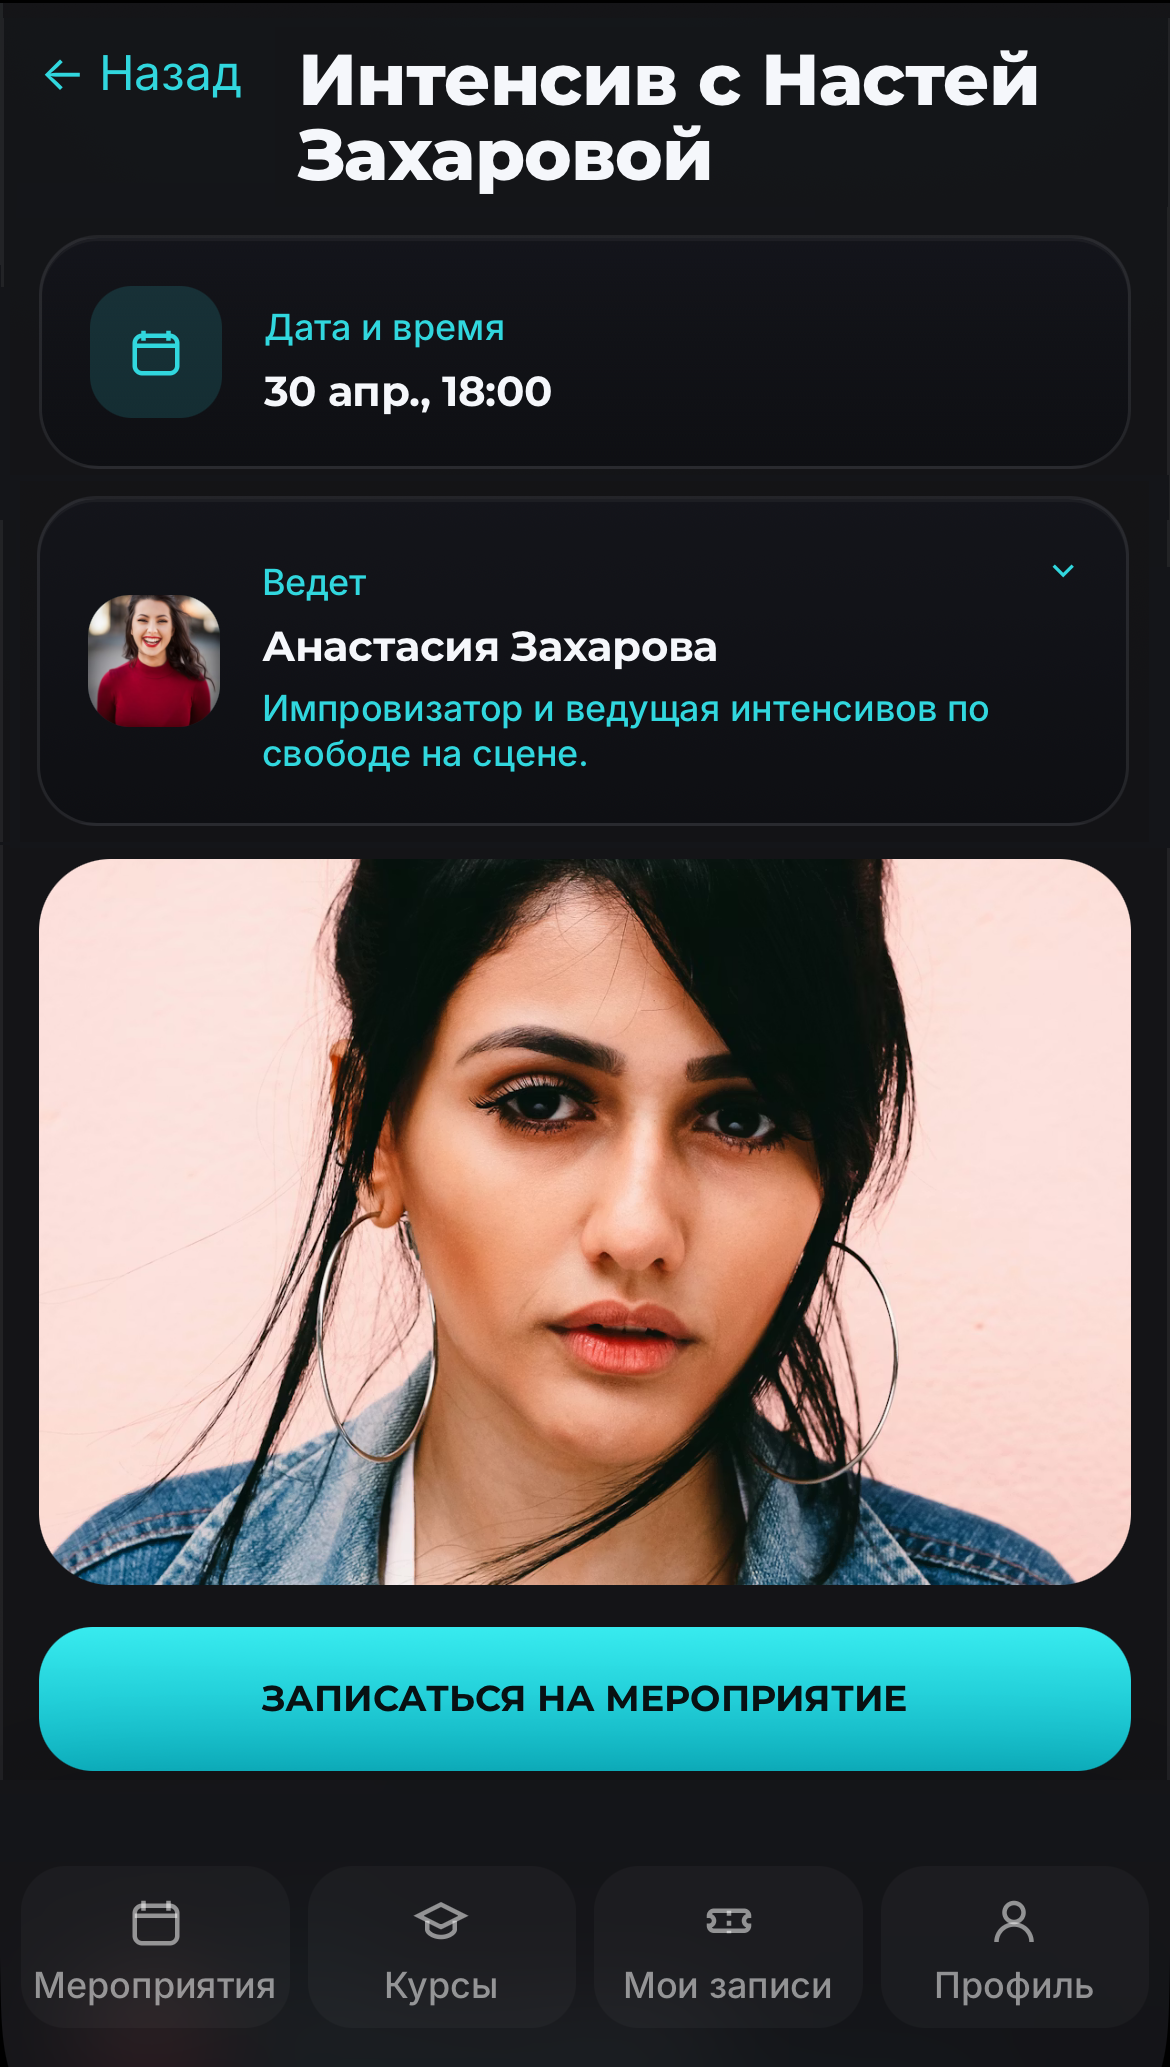
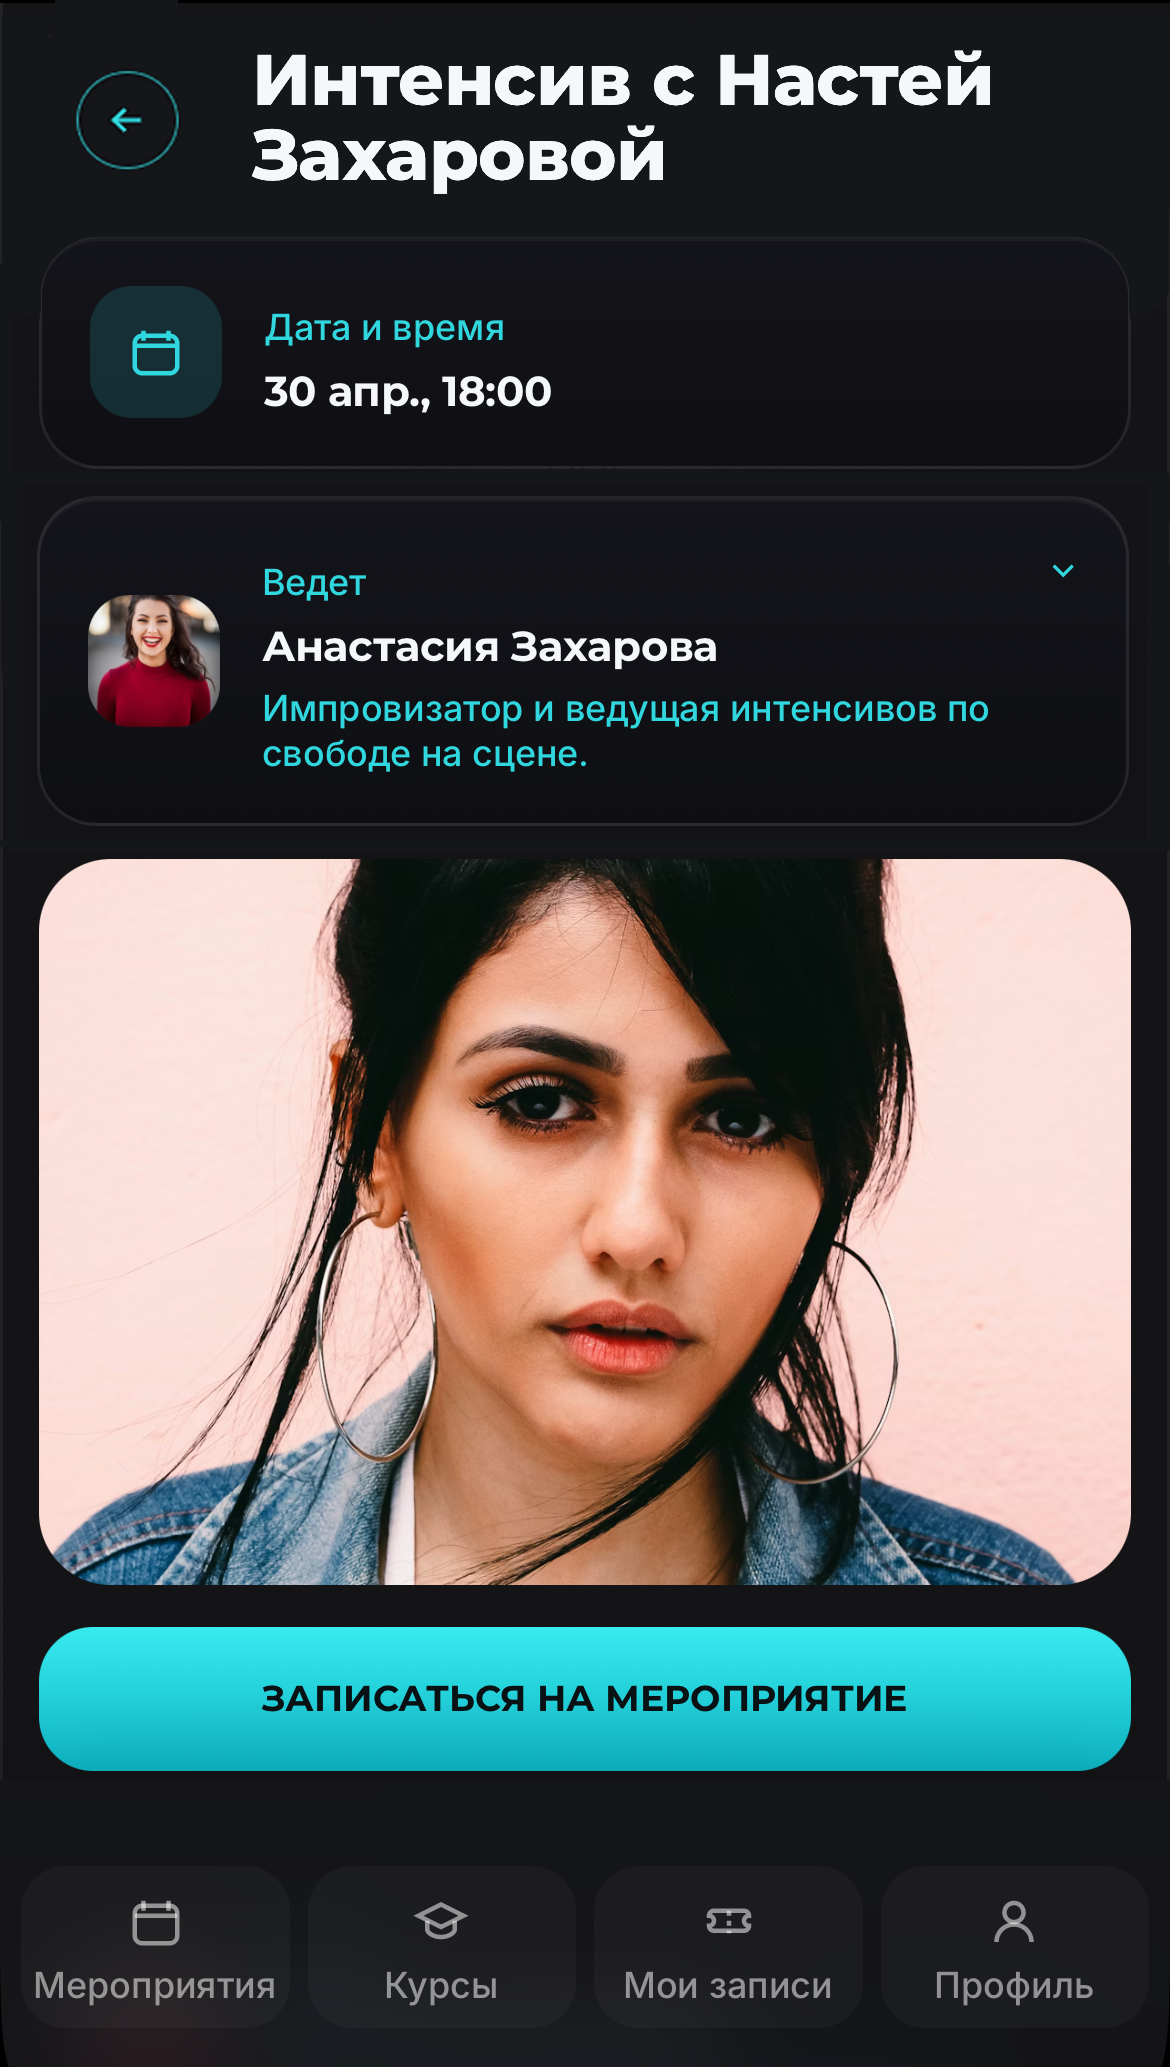
fix

Changed region(s): [[0.0308, 0.0, 0.8923, 0.0929]]

diff --git a/frontend/src/pages/CourseDetailPage.tsx b/frontend/src/pages/CourseDetailPage.tsx
@@ -1,9 +1,9 @@
 import { useEffect, useState } from "react";
-import { useParams } from "react-router-dom";
+import { Link, useParams } from "react-router-dom";
 import { api } from "../api";
 import { useAppData } from "../store/AppDataContext";
 import { CourseItem } from "../types";
-import { GraduationIcon } from "../components/Icons";
+import { BackArrowIcon, GraduationIcon } from "../components/Icons";
 import { TeacherPanel } from "../components/TeacherPanel";
 import { formatCourseDate } from "../utils/format";
 
@@ -43,7 +43,14 @@ export function CourseDetailPage() {
 
   return (
     <section className="detail-page">
-      <h1>{course.title}</h1>
+      <div className="detail-page__title-row">
+        <Link className="detail-page__back-link" to="/courses">
+          <span className="detail-page__back-icon">
+            <BackArrowIcon width={20} height={20} />
+          </span>
+        </Link>
+        <h1>{course.title}</h1>
+      </div>
       <div className="detail-page__panel detail-page__meta">
         <div className="detail-page__meta-icon">
           <GraduationIcon width={20} height={20} />

diff --git a/frontend/src/pages/EventDetailPage.tsx b/frontend/src/pages/EventDetailPage.tsx
@@ -1,9 +1,9 @@
 import { useEffect, useState } from "react";
-import { useParams } from "react-router-dom";
+import { Link, useParams } from "react-router-dom";
 import { api } from "../api";
 import { useAppData } from "../store/AppDataContext";
 import { EventItem } from "../types";
-import { CalendarIcon } from "../components/Icons";
+import { BackArrowIcon, CalendarIcon } from "../components/Icons";
 import { TeacherPanel } from "../components/TeacherPanel";
 import { formatEventDate } from "../utils/format";
 
@@ -43,7 +43,14 @@ export function EventDetailPage() {
 
   return (
     <section className="detail-page">
-      <h1>{event.title}</h1>
+      <div className="detail-page__title-row">
+        <Link className="detail-page__back-link" to="/">
+          <span className="detail-page__back-icon">
+            <BackArrowIcon width={20} height={20} />
+          </span>
+        </Link>
+        <h1>{event.title}</h1>
+      </div>
       <div className="detail-page__panel detail-page__meta">
         <div className="detail-page__meta-icon">
           <CalendarIcon width={20} height={20} />

diff --git a/frontend/src/styles/global.css b/frontend/src/styles/global.css
@@ -120,7 +120,7 @@ button {
   line-height: var(--lh-card-title);
   letter-spacing: var(--ls-card-title);
   font-weight: 800;
-  text-align: center;
+  text-align: left;
 }
 
 .body-text,
@@ -382,6 +382,18 @@ button {
   gap: 14px;
 }
 
+.detail-page__title-row {
+  display: grid;
+  grid-template-columns: 44px minmax(0, 1fr);
+  align-items: start;
+  gap: 14px;
+}
+
+.detail-page__title-row h1 {
+  margin: 0;
+  padding-top: 1px;
+}
+
 .button-text,
 .cta-button {
   border: 0;
@@ -517,6 +529,24 @@ button {
   border-radius: 14px;
   flex: 0 0 auto;
   background: rgba(49, 215, 222, 0.15);
+  color: var(--accent);
+  display: flex;
+  align-items: center;
+  justify-content: center;
+}
+
+.detail-page__back-link {
+  display: inline-flex;
+  width: 44px;
+  height: 44px;
+}
+
+.detail-page__back-icon {
+  width: 44px;
+  height: 44px;
+  border-radius: 999px;
+  border: 1.5px solid rgba(49, 215, 222, 0.72);
+  background: transparent;
   color: var(--accent);
   display: flex;
   align-items: center;
